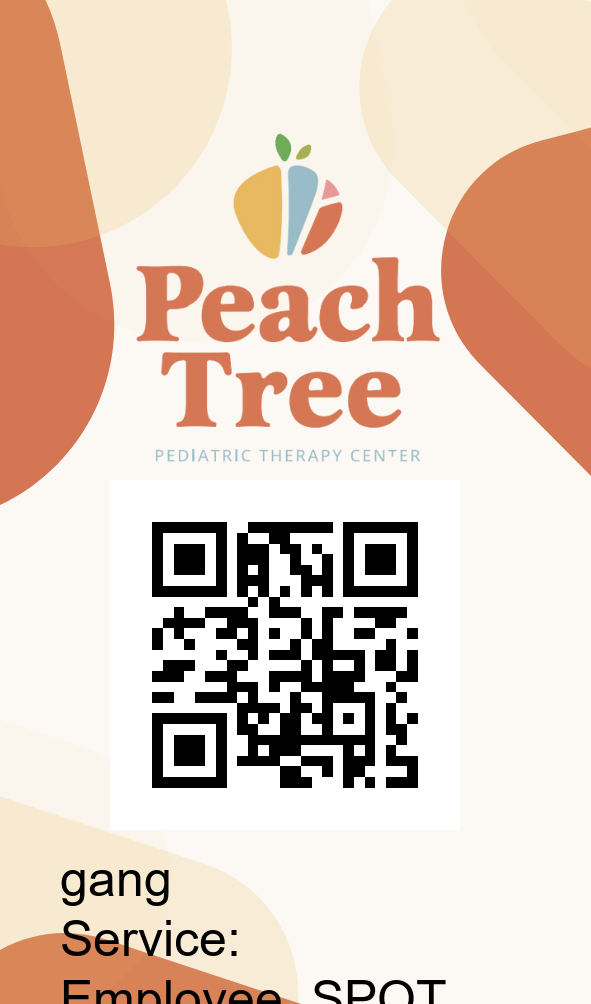
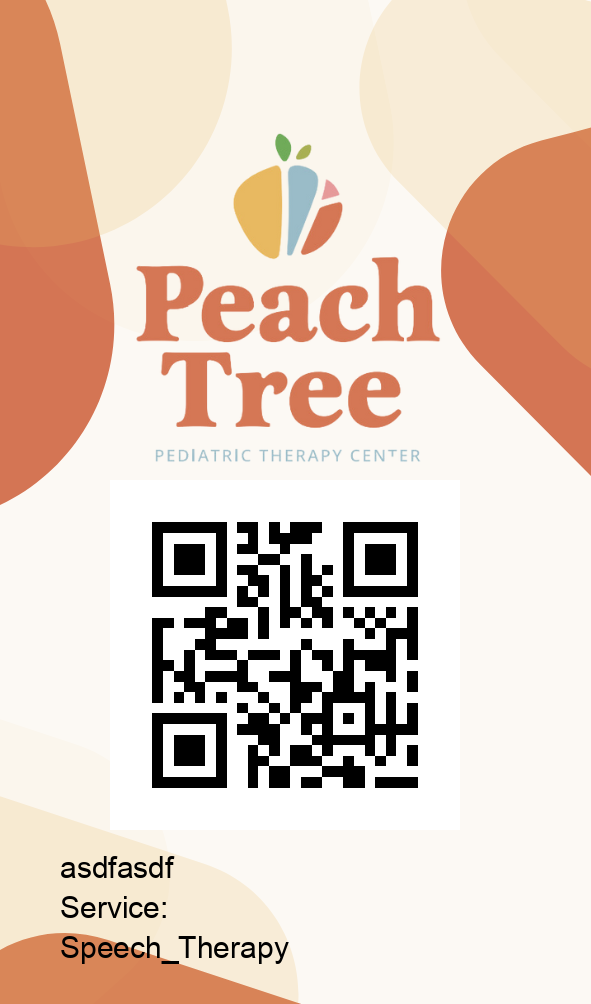
Removed try catch for font

Changed region(s): [[0.2437, 0.5249, 0.731, 0.8028], [0.0914, 0.8337, 0.4873, 1.0], [0.5178, 0.9572, 0.7614, 1.0]]

diff --git a/ptcClient/src/components/clientModal.tsx b/ptcClient/src/components/clientModal.tsx
@@ -35,7 +35,7 @@ function ClientModal(){
       if(open && !hasFetchedRoles) {
         const fetchRoles = async () => {
           try {
-            const response = await fetch(`http://localhost:5000/api/getRoles`);
+            const response = await fetch(`/api/getRoles`);
             const data = await response.json();
             setRoles(data);
             setHasFetchedRoles(true)
@@ -104,7 +104,7 @@ function ClientModal(){
       }
       //Attempt to create an Account
       try {
-        const response = await fetch(`http://localhost:5000/api/createAccount`, account)
+        const response = await fetch(`/api/createAccount`, account)
         if (!response.ok) {
           throw new Error('Error creating account');
         }

diff --git a/ptcClient/src/pages/events.tsx b/ptcClient/src/pages/events.tsx
@@ -50,11 +50,11 @@ function Events() {
       //Try 
       console.log(quickReport)
       try {
-        const response = await fetch(`http://192.168.0.54:5000/api/generateReport`, quickReport,).then(
+        const response = await fetch(`/api/generateReport`, quickReport,).then(
           res => res.json()
         ).then(
            data => {
-            axios.get(`http://192.168.0.54:5000/api/download/${data}`,{responseType: 'blob'}
+            axios.get(`/api/download/${data}`,{responseType: 'blob'}
             ).then((downloadRes) => {
               const url = window.URL.createObjectURL(new Blob([downloadRes.data]));
               const link = document.createElement('a');

diff --git a/ptcClient/vite.config.ts b/ptcClient/vite.config.ts
@@ -6,7 +6,7 @@ export default defineConfig({
   server: {
     proxy: {
       '/api': {
-        target: 'http://192.168.0.54:5000',
+        target: 'http://192.168.1.12:5000',
         changeOrigin: true,
         secure: false,
       },

diff --git a/APIFuncs/badgeGenerator.py b/APIFuncs/badgeGenerator.py
@@ -30,12 +30,7 @@ def generate_qr_code(userID, filename):
 def add_text_to_image(img_path, text, output_path, position, font_size=50):
     img = Image.open(img_path).convert("RGBA")
     draw = ImageDraw.Draw(img)
-    font = ImageFont.load_default()
-    try:
-        font = ImageFont.truetype("Arial.ttf", font_size)
-    except IOError:
-        font = ImageFont.load_default()
-
+    font = ImageFont.truetype("APIFuncs/Arial.ttf", font_size)
     # Split the text into multiple lines
     lines = text.split('\n')
     y = position[1]
@@ -82,7 +77,8 @@ def generate_badge(userID):
             front_img_path,
             f"{initials}\nEmployee\n\n{formatted_phone}\n{formatted_address}",
             front_output_path,
-            (50, 570)
+            (50, 570),
+            font_size=30
         )
         # Embed user image into EmployeeFrontWithDetails
         #Check to see if an image exists, if not then use base ptclogo
@@ -126,7 +122,8 @@ def generate_badge(userID):
             front_img_path,
             f"{initials}\n{formatted_service}",
             front_output_path,
-            (60, 850)  # Adjust as needed to fit text and QR code
+            (60, 850), # Adjust as needed to fit text and QR code
+            font_size=30
         )
 
         # Generate QR code and place it on the front image
